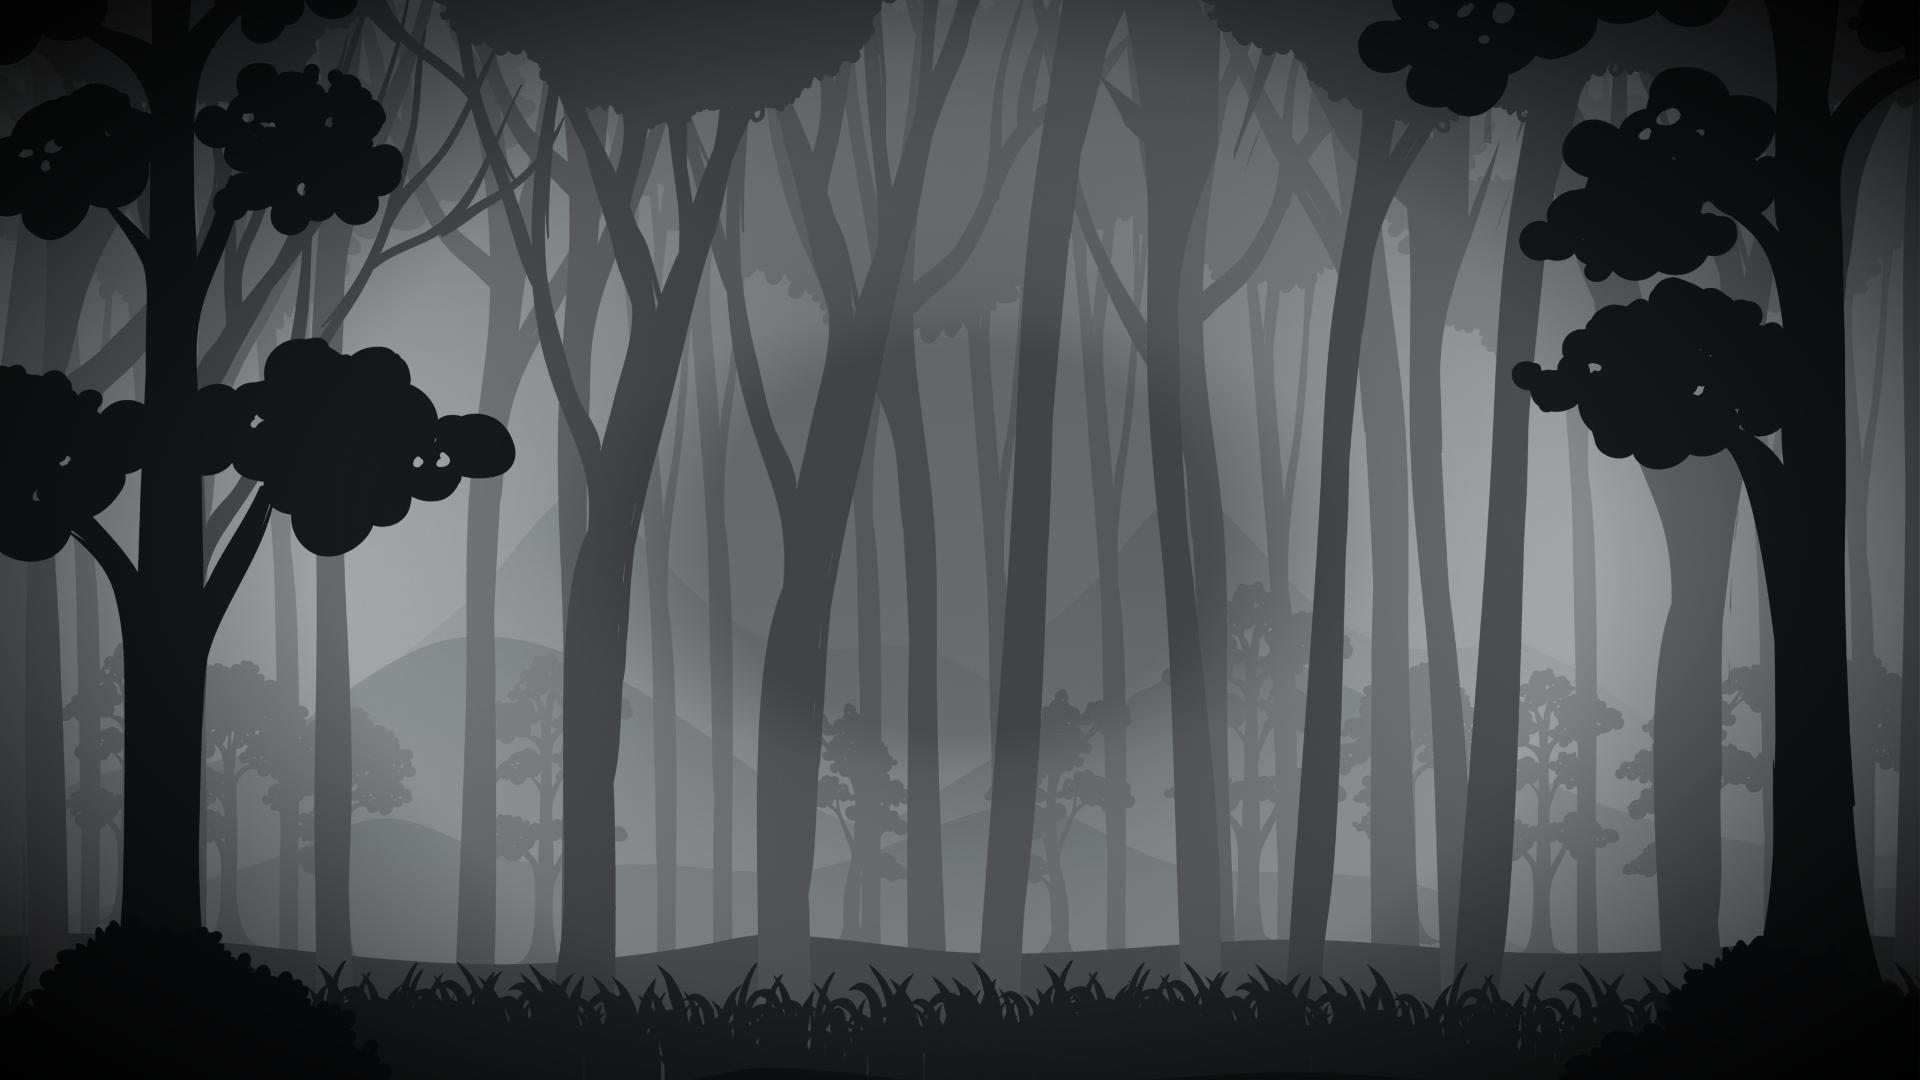
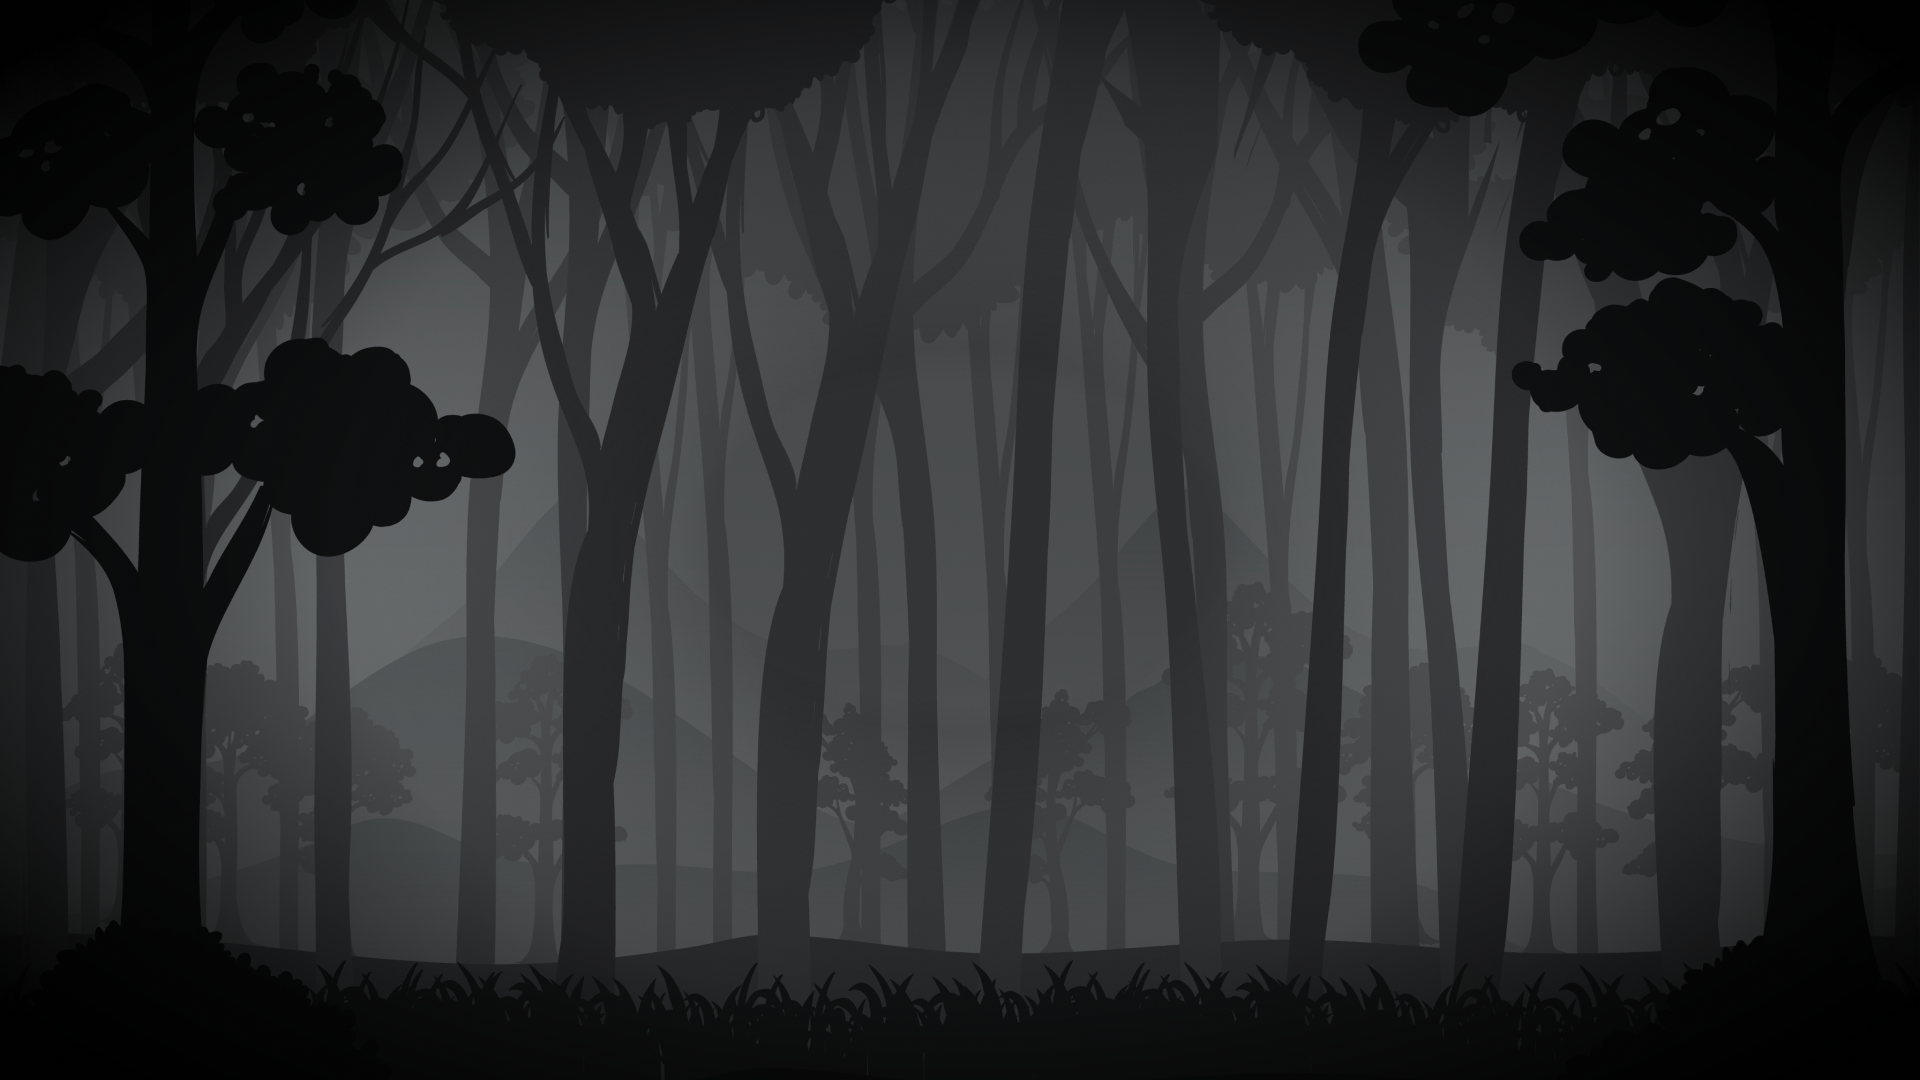
정건희: <style> 회원가입 유효성 검사, 톤 다운 된 배경화면 css 적용

diff --git a/src/components/sign/formSignUp/FormSignUp.jsx b/src/components/sign/formSignUp/FormSignUp.jsx
@@ -31,6 +31,7 @@ export default function FormSignUp() {
   const [show, setShow] = useState(false);
   // 유효성 검사
   const [successName, setSuccessName] = useState(false);
+  const [successMail, setSuccessMail] = useState(false);
   const [successPassword, setSuccessShowPassword] = useState(false);
   const [successPasswordConfirm, setSuccessPasswordConfirm] = useState(false);
 
@@ -43,6 +44,9 @@ export default function FormSignUp() {
       setMsgName('닉네임을 입력해주세요.');
       setShowName(true);
       setSuccessName(false);
+      setTimeout(() => {
+        setShowName(false);
+      }, 2000);
     }
 
     return name;
@@ -54,11 +58,16 @@ export default function FormSignUp() {
     );
 
     if (result) {
-      setMsgMail('');
+      setMsgMail('올바른 메일 형식이에요.');
       setShowMail(false);
+      setSuccessMail(true);
     } else {
-      setMsgMail('올바른 메일 형식이 아닙니다.');
+      setMsgMail('올바른 메일 형식이 아니에요.');
       setShowMail(true);
+      setSuccessMail(false);
+      setTimeout(() => {
+        setShowMail(false);
+      }, 2000);
     }
 
     return result;
@@ -77,15 +86,26 @@ export default function FormSignUp() {
       setMsgPassword('영문, 숫자, 특수문자로 작성해주세요.');
       setShowPassword(true);
       setSuccessShowPassword(false);
+      setTimeout(() => {
+        setShowPassword(false);
+      }, 2000);
     }
 
     return result;
   };
 
   const passwordConfirmCheck = () => {
+    const empty = passwordConfirm.trim() === '';
     const result = password === passwordConfirm;
 
-    if (result) {
+    if (empty) {
+      setMsgPasswordConfirm('내용을 입력해주세요.');
+      setShowPasswordConfirm(true);
+      setSuccessPasswordConfirm(false);
+      setTimeout(() => {
+        setShowPasswordConfirm(false);
+      }, 2000);
+    } else if (result) {
       setMsgPasswordConfirm('입력한 비밀번호와 동일해요.');
       setShowPasswordConfirm(false);
       setSuccessPasswordConfirm(true);
@@ -193,6 +213,12 @@ export default function FormSignUp() {
               {showMail ? (
                 <p className="fail">
                   <Redicon />
+                  {msgMail}
+                </p>
+              ) : null}
+              {successMail ? (
+                <p className="success">
+                  <Greenicon />
                   {msgMail}
                 </p>
               ) : null}

diff --git a/src/components/sign/formSignUp/style.scss b/src/components/sign/formSignUp/style.scss
@@ -54,7 +54,7 @@
 
   margin-bottom: 30px;
 
-  :focus {
+  input:focus {
     outline: none;
   }
 
